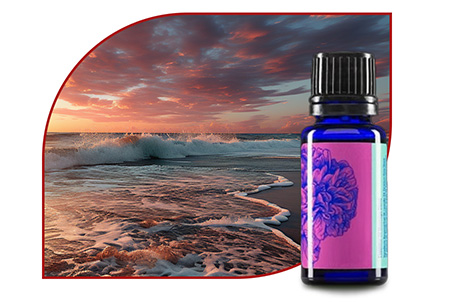
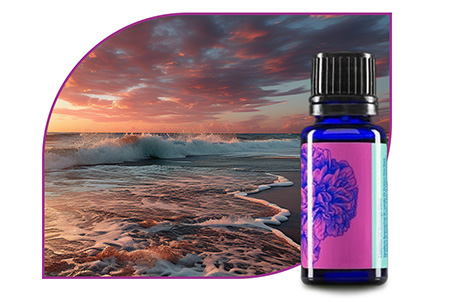
ajouter(server.ts) : ajouter les fichiers d'images pour le produit HE Relaxant corriger(server.ts) : corriger les chemins d'accès aux fichiers d'images pour le produit HE Relaxant corriger(Description.js) : ajouter du style pour la sélection de texte dans la description du produit corriger(HERelaxan

diff --git a/frontend/src/components/Description.js b/frontend/src/components/Description.js
@@ -13,10 +13,22 @@ const Description = ({ productDescription }) => {
             key={index}
             className={
               index === 1
-                ? "productDescriptPresentFirst"
-                : "productDescriptPresentNext"
+                ? "selectText productDescriptPresentFirst"
+                : "selectText productDescriptPresentNext"
             }
           >
+            <style>
+              {`
+              ::selection {
+                background: ${themeColors.textColor};
+                color: white;
+              }
+              ::-moz-selection {
+                background: ${themeColors.textColor};
+                color: white;
+              }
+              `}
+            </style>
             {index === 1 && (
               <div>
                 <h3

diff --git a/frontend/src/data/product/HERelaxante.js b/frontend/src/data/product/HERelaxante.js
@@ -3,8 +3,7 @@ import { getCategoryById, getSecondCategoryById } from "../firstCategoryHelper";
 export const heRelaxante = {
   nameProduct: "HE Relaxante",
   summary: {
-    title:
-      "De l'agitation à la sérénité : Découvrez le pouvoir des huiles essentielles sur le bien-être",
+    title: "Découvrez le pouvoir de l'huile essentielle sur le bien-être",
     paragraph: [
       {
         subTitle: "L'huile essentielle, un remède naturel contre le stress",
@@ -71,6 +70,6 @@ export const heRelaxante = {
   secondCategory: [getSecondCategoryById("4HuilesEssentielles0MieuxEtre").text],
   picture: "./img/jpg/product/heRelaxante.jpg",
   colors: {
-    textColor: "#a81616"
+    textColor: "#9f348b"
   }
 };

diff --git a/frontend/src/sass/themes/largeScreen/_productCard.scss b/frontend/src/sass/themes/largeScreen/_productCard.scss
@@ -91,5 +91,4 @@
   width: auto;
   height: 300px;
   object-fit: cover;
-  // margin: 10px auto;
 }
